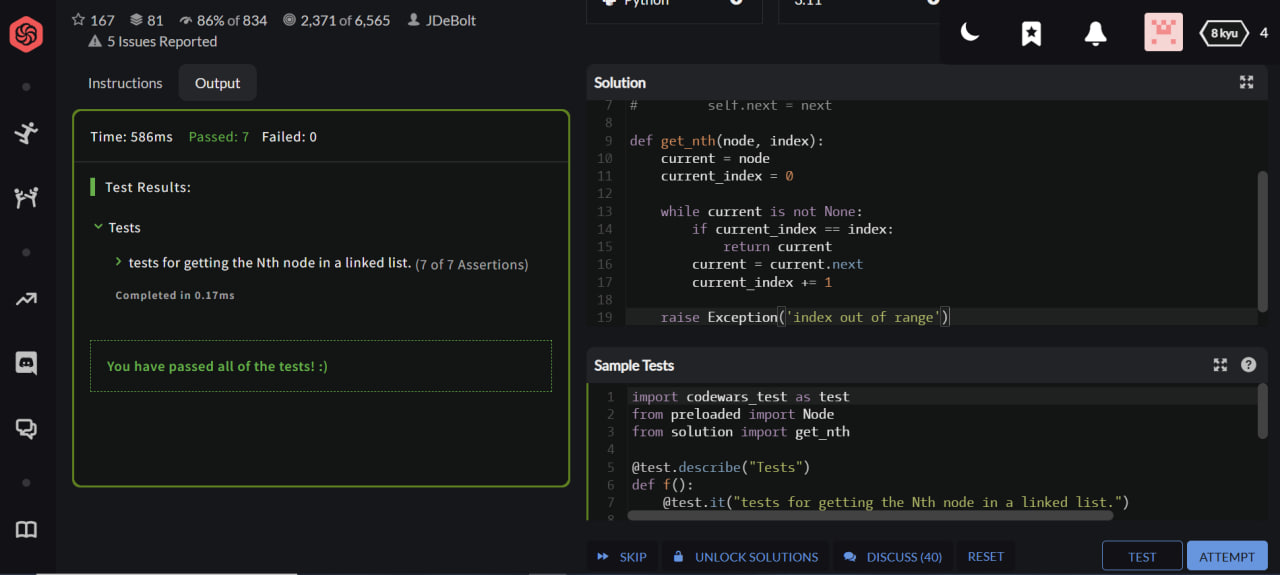
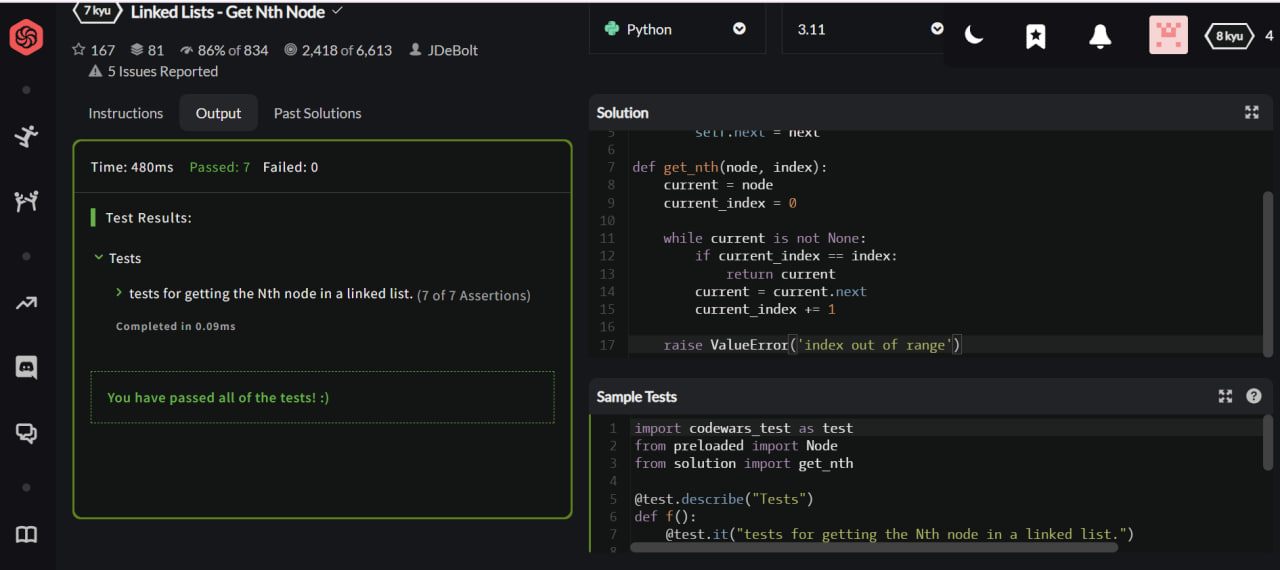
errors correction

diff --git a/Can-you-get-the-loop/loop.py b/Can-you-get-the-loop/loop.py
@@ -6,11 +6,11 @@ def loop_size(node):
         slow = slow.next
         fast = fast.next.next
 
-    count = 1
-    current = slow.next
+    k = 1
+    cur = slow.next
 
-    while current != slow:
-        current = current.next
-        count += 1
+    while cur != slow:
+        cur = cur.next
+        k += 1
 
-    return count
+    return k

diff --git a/Linked-Lists-Alternating-Split/split.py b/Linked-Lists-Alternating-Split/split.py
@@ -12,7 +12,7 @@ def alternating_split(head):
     # Your code goes here.
     # Remember to return the context.
     if head is None or head.next is None:
-        raise Exception('empty list')
+        raise ValueError('empty list')
 
     first = head
     second = head.next

diff --git a/Linked-Lists-Move-Node/move.py b/Linked-Lists-Move-Node/move.py
@@ -12,7 +12,7 @@ def move_node(source, dest):
     # Your code goes here.
     # Remember to return the context.
     if source is None:
-        raise Exception('empty list')
+        raise ValueError('empty list')
 
     new_node = Node(source.data)
     new_node.next = dest

diff --git a/Linked-Lists-Get-Nth-Node/inex.py b/Linked-Lists-Get-Nth-Node/inex.py
@@ -14,4 +14,4 @@ def get_nth(node, index):
         current = current.next
         current_index += 1
 
-    raise Exception('index out of range')
+    raise ValueError('index out of range')
